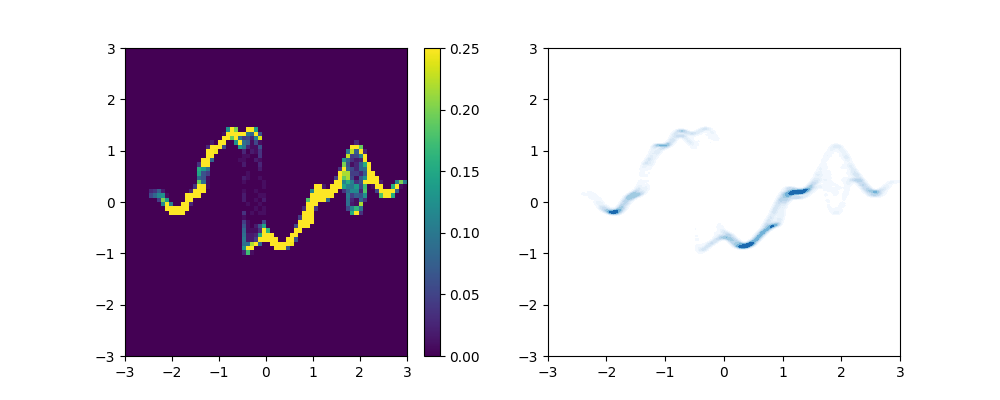
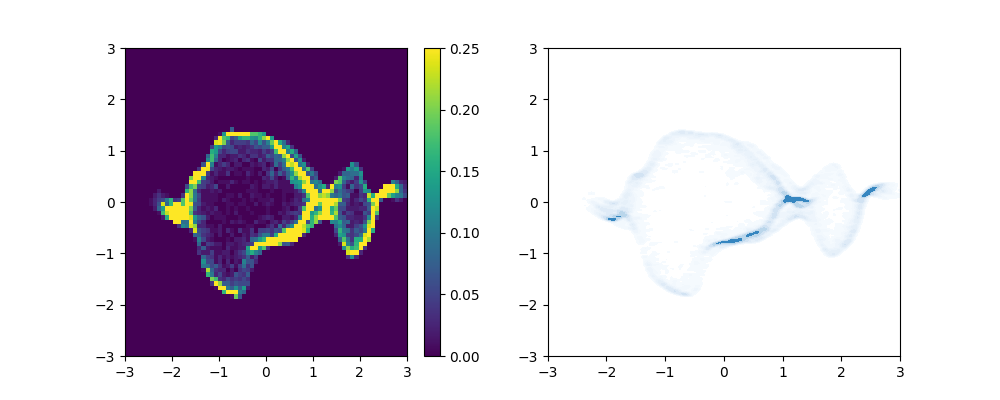
generic commit

diff --git a/scripts/transport/kvae_flow.py b/scripts/transport/kvae_flow.py
@@ -700,7 +700,7 @@ def run():
     target_gen = sample_swiss_roll
     N = 1500
     two_d_exp(ref_gen, target_gen, N, n_iter=51, plt_range=[[-3, 3], [-3, 3]], process_funcs=[], skip_idx=1,
-              slice_vals=[], slice_range=[-1.5, 1.5], exp_name='swiss_kflow', vmax=.25, n_transports=5)
+              slice_vals=[], slice_range=[-1.5, 1.5], exp_name='swiss_kflow', vmax=.25, n_transports=25)
 
 
 if __name__=='__main__':
